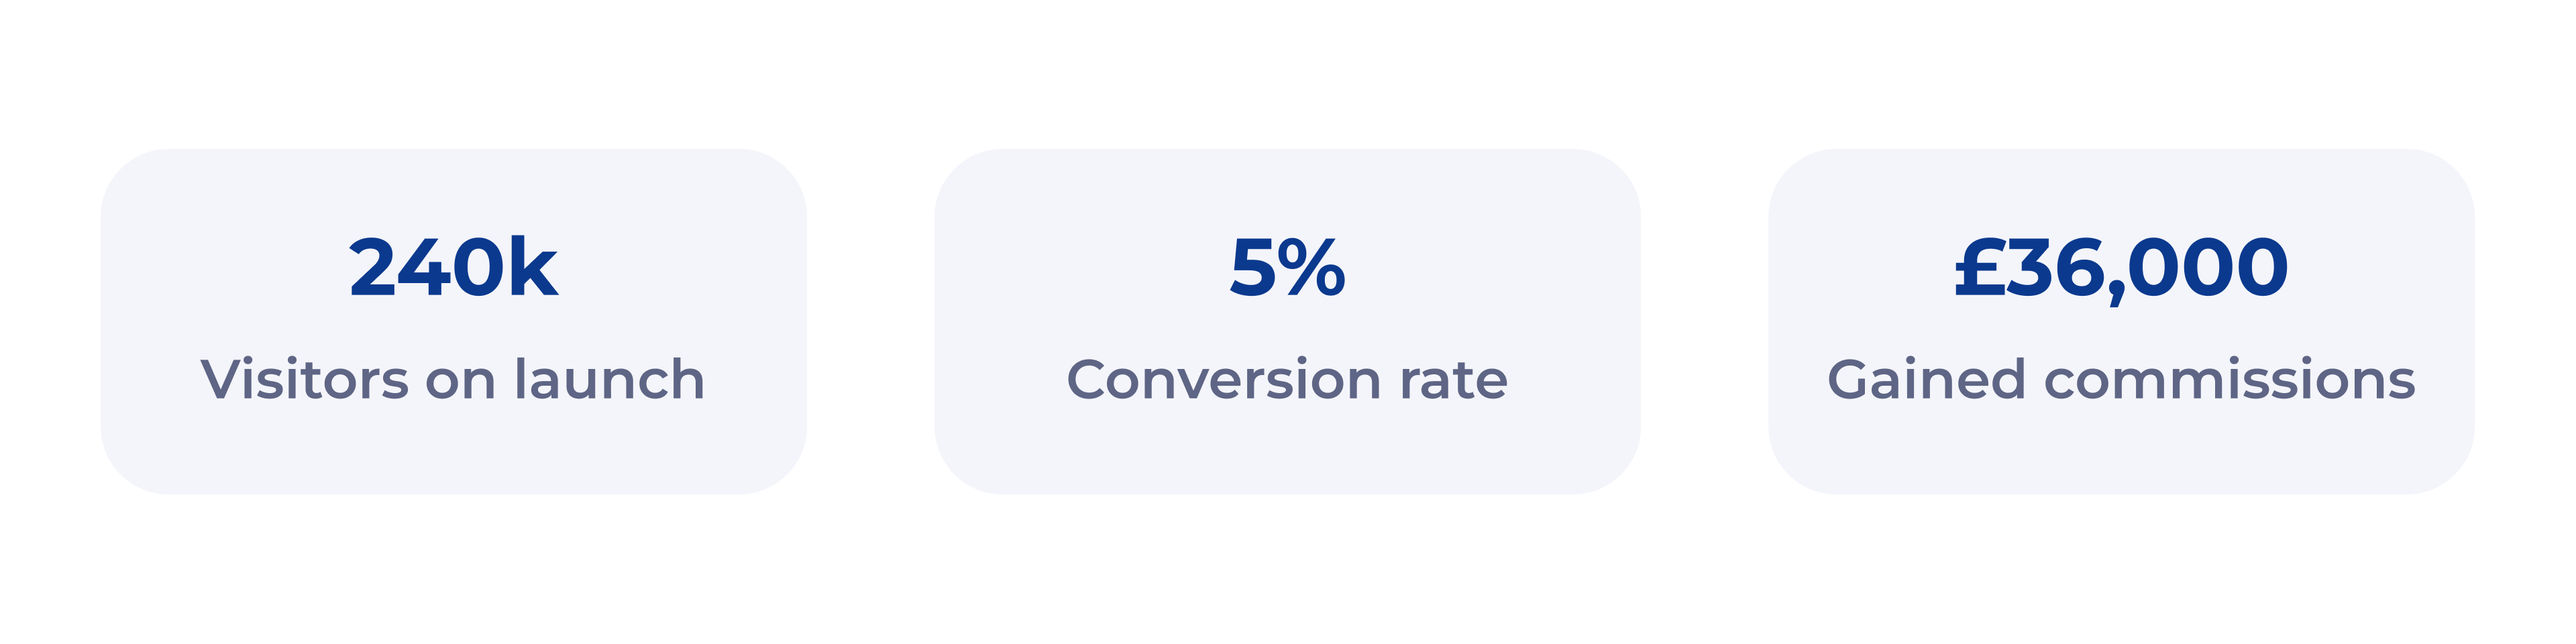
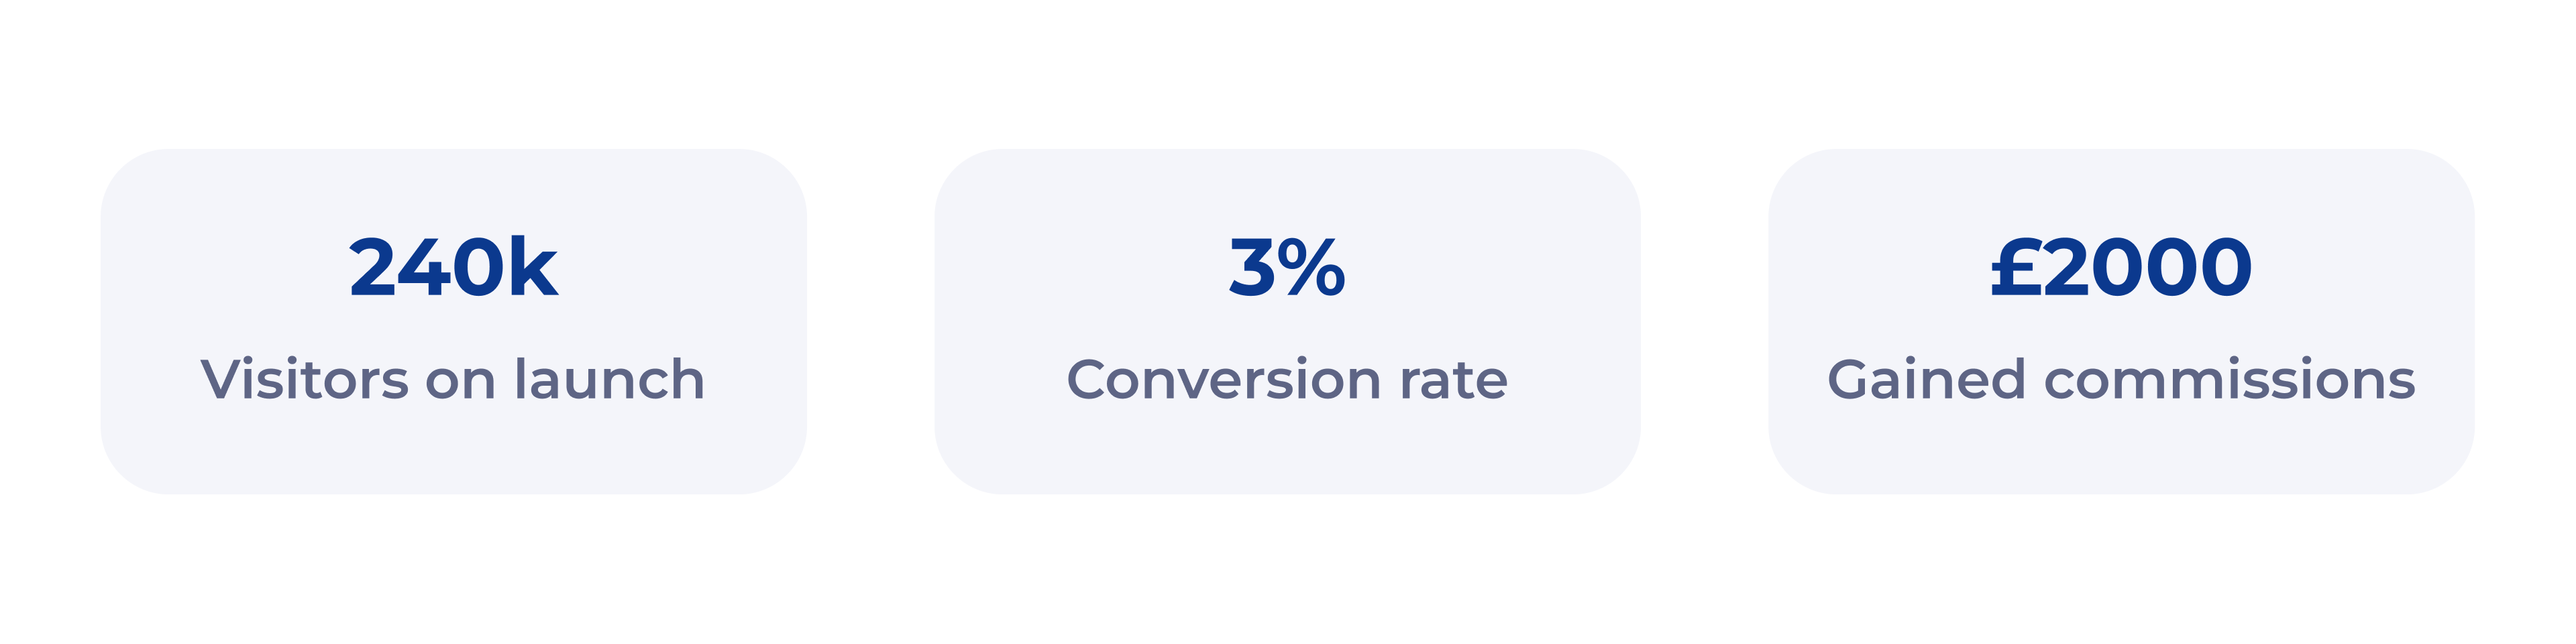
amazon metrics

Changed region(s): [[0.75, 0.3438, 0.9062, 0.4688], [0.4688, 0.375, 0.5, 0.4375]]

diff --git a/amazon_warehouse.html b/amazon_warehouse.html
@@ -58,7 +58,7 @@
                     <strong>Business goal:</strong> Increasing sales commissions by having MoneySavingExpert users adopting the Amazon Warehouse Discount Finder.<br>
                     <br>
                     <strong>Success metrics:</strong> 
-                    On launch day alone, the Amazon Warehouse Discount Finder attracted <strong>240k visitors</strong>. This impressive traffic translated into an estimated £600,000 in Amazon sales, resulting in approximately <strong>£36,000 in commissions</strong>. 
+                    On launch day alone, the Amazon Warehouse Discount Finder attracted <strong>240k visitors</strong>. This impressive traffic translated into 1400 estimated sales, resulting in approximately <strong>£2000 in commissions</strong>. 
                 </p>
             </section>
 

diff --git a/index.html b/index.html
@@ -182,7 +182,7 @@
                           <div class="title-text">Amazon Deal Finder</div>
                        </div>
                     </div>
-                    <p>How to make £36,000 in Amazon commissions in one day with a tool designed for Martin Lewis.</p>
+                    <p>How to make £2000 in Amazon commissions in one day with a tool designed for Martin Lewis.</p>
                 </div>
 
                 <div class="card">
